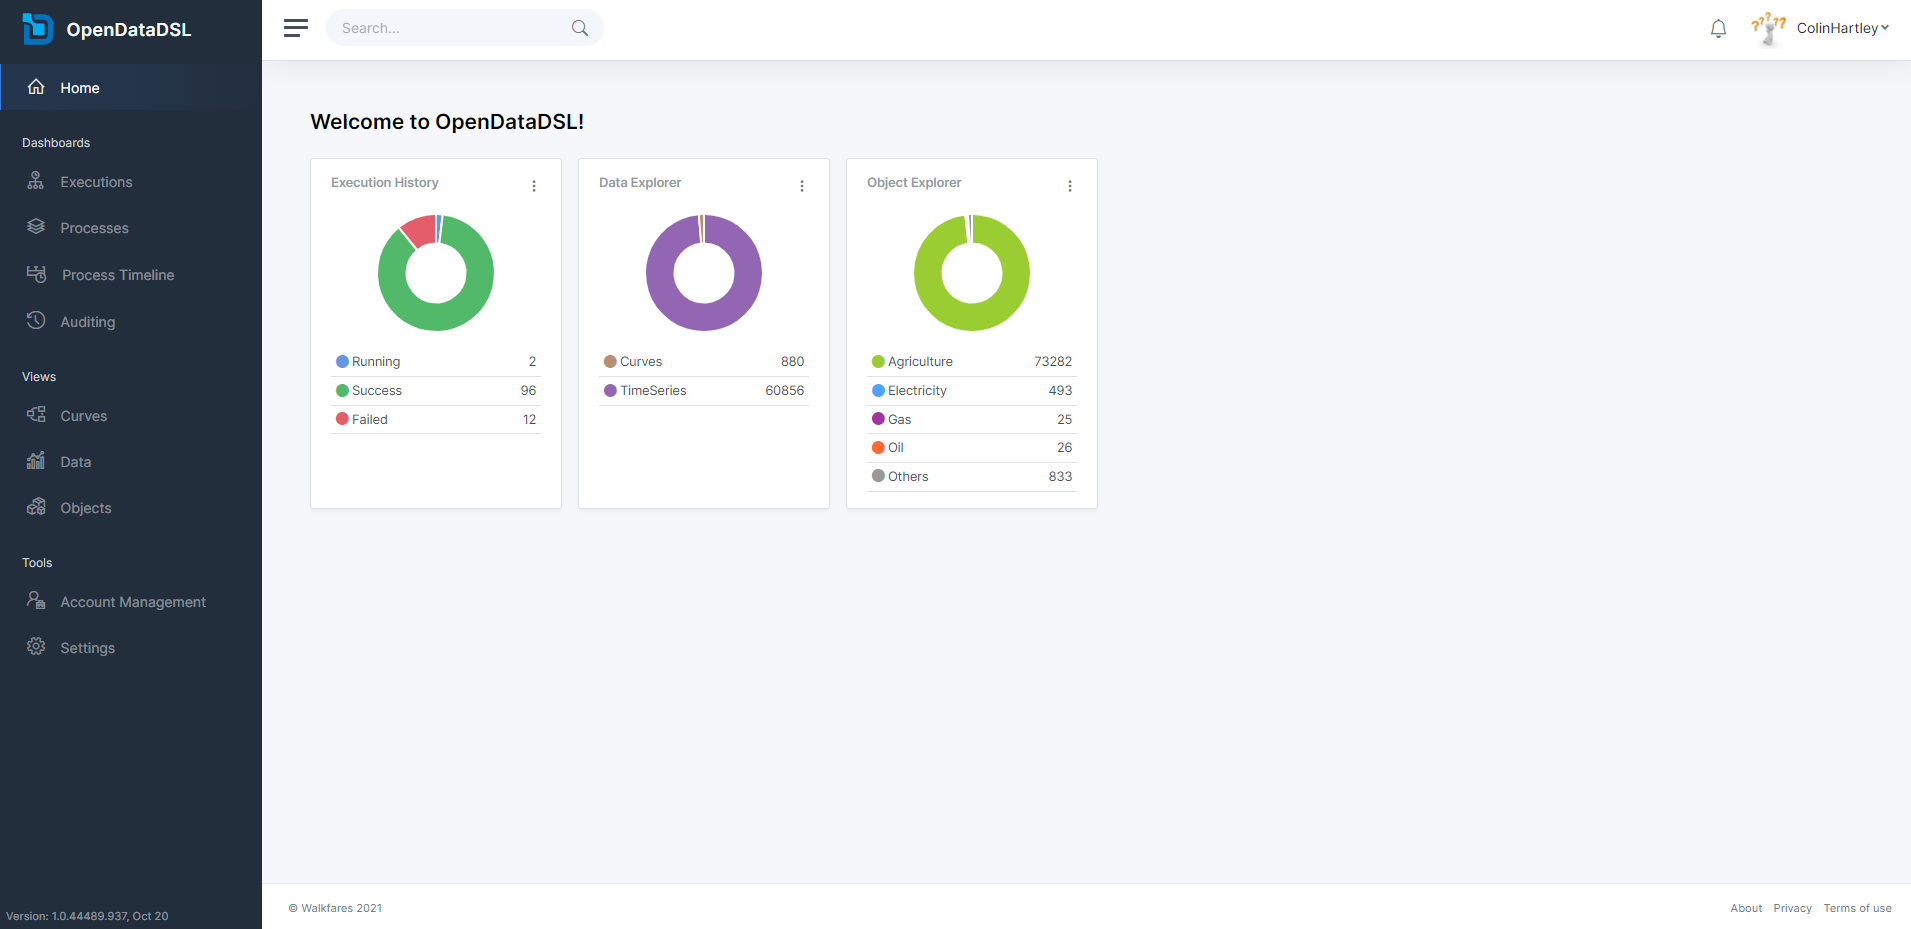
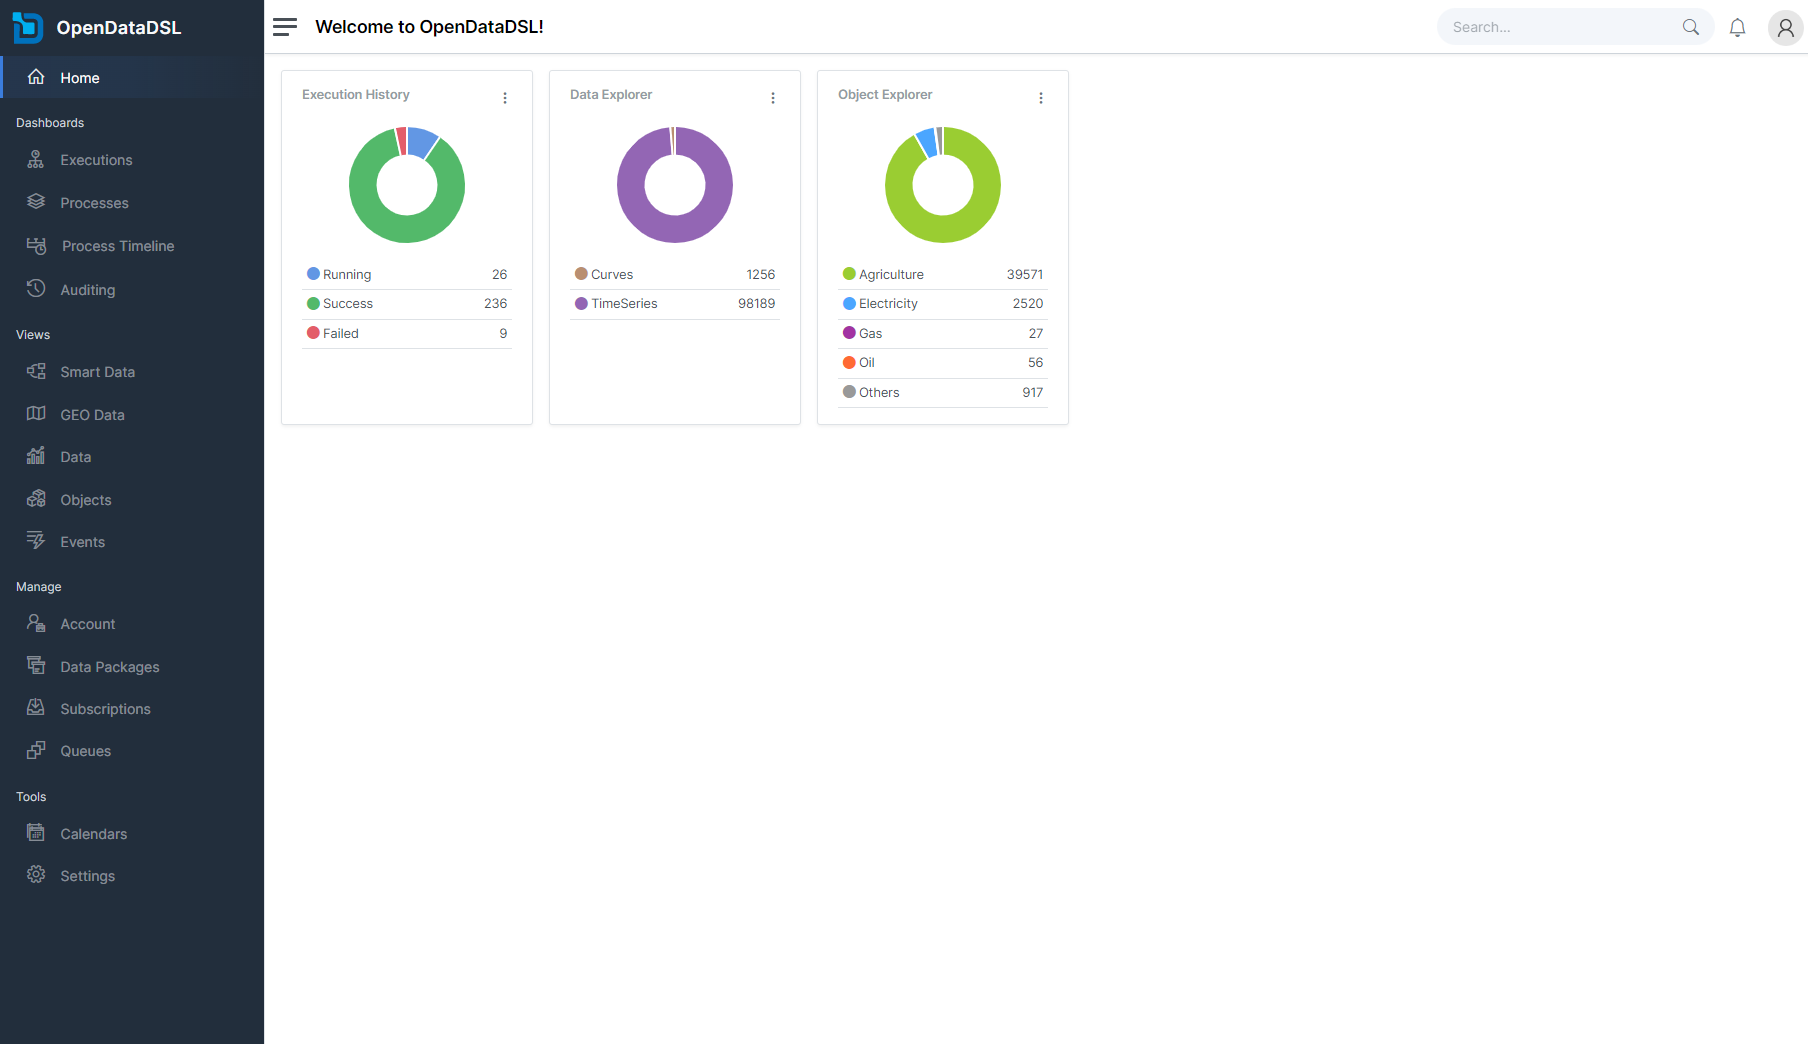
Updated portal screenshot

diff --git a/docs/product/User Guides/Web Portal/Web Portal.md b/docs/product/User Guides/Web Portal/Web Portal.md
@@ -66,8 +66,12 @@ The auditing dashboard allows you to drill-down into specific events that have h
 ## Views
 OpenDataDSL views focus on various aspects of information in both the public and private spaces
 
-### Curves View
-The curves view allows you to manage and build your own forward curves.
+### Smart Data View
+The smart data view allows you to create, edit and view all your smart timeseries and curves.
+
+### Geo Data
+The geo data view gives you access to the stored geometry in your objects/documents.
+You can filter your data to zoom-in on the locations within the map
 
 ### Data View
 The data view gives you direct access to all the TimeSeries and Curves in OpenDataDSL.
@@ -77,11 +81,26 @@ You can filter and find, chart and export data.
 The objects view shows all the public and private objects in OpenDataDSL allowing you to filter, find and navigate through the object database.
 Clicking on data assets in an object allows you to inspect and chart that data.
 
-## Tools
-OpenDataDSL tools allow you to configure your account and settings
+### Events View
+The events view gives you access to all the stored events
 
-### Account Management Tool
+## Manage
+
+### Account Management
 The account management tool allows you to update your own personal details, your organization details and settings, billing information and support.
+
+### Data Packages
+Data packages are pre-configured ETL processes for data sets you may want to load into your private repository.
+These data sets generally require you have have an account with the vendor or are not freely distributable.
+
+### Subscriptions
+You can manage your subscribed data here along with the targets of these subscriptions
+
+### Queues
+You can view or manage you message queues here
+
+## Tools
+OpenDataDSL tools allow you to configure your settings
 
 ### Settings Tool
 The settings tool allows you to personalise the portal to suit your own preferences.

diff --git a/docs/product/User Guides/Web Portal/home-screen.md b/docs/product/User Guides/Web Portal/home-screen.md
@@ -9,7 +9,7 @@ tags:
 ---
 The home screen of the portal contains an up-to-date summary of all your vital statistics.
 
-Currently it contains the following summary charts:
+Currently it contains the following widgets:
 * The status of your process executions over the past 24 hours
 * A count of the total public Curves and TimeSeries
 * A count of the total public objects by type
@@ -17,5 +17,7 @@ Currently it contains the following summary charts:
 *An example of the summary information*
 
 ![](/img/portal/home_screen.png)
+
+Clicking on the menu button on the top right of the widget gives you additional options for the widget
  
 Clicking on the charts will take you to that specific section of the portal.
